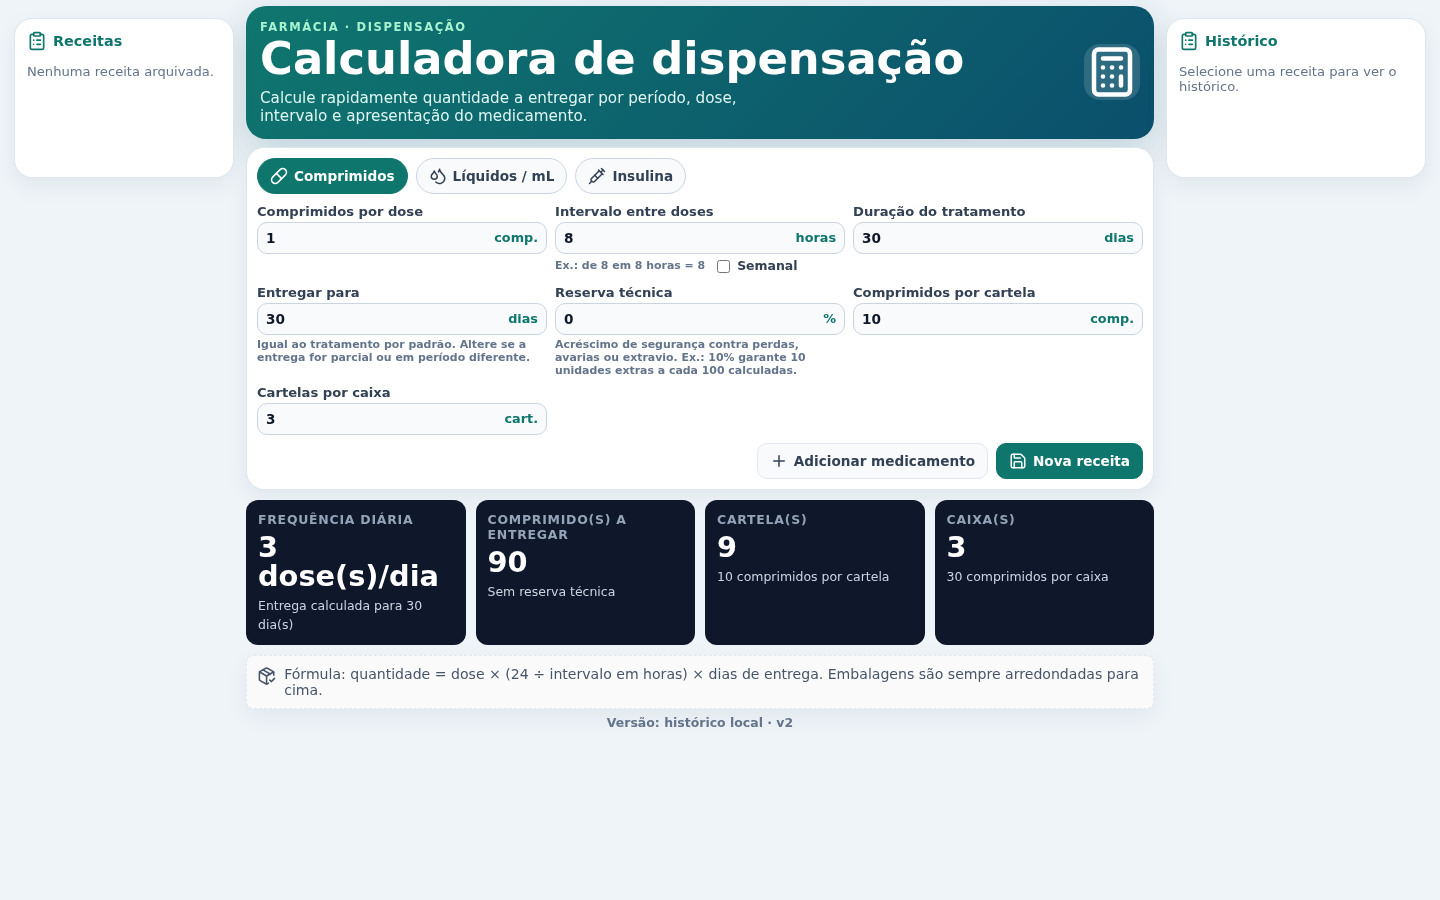
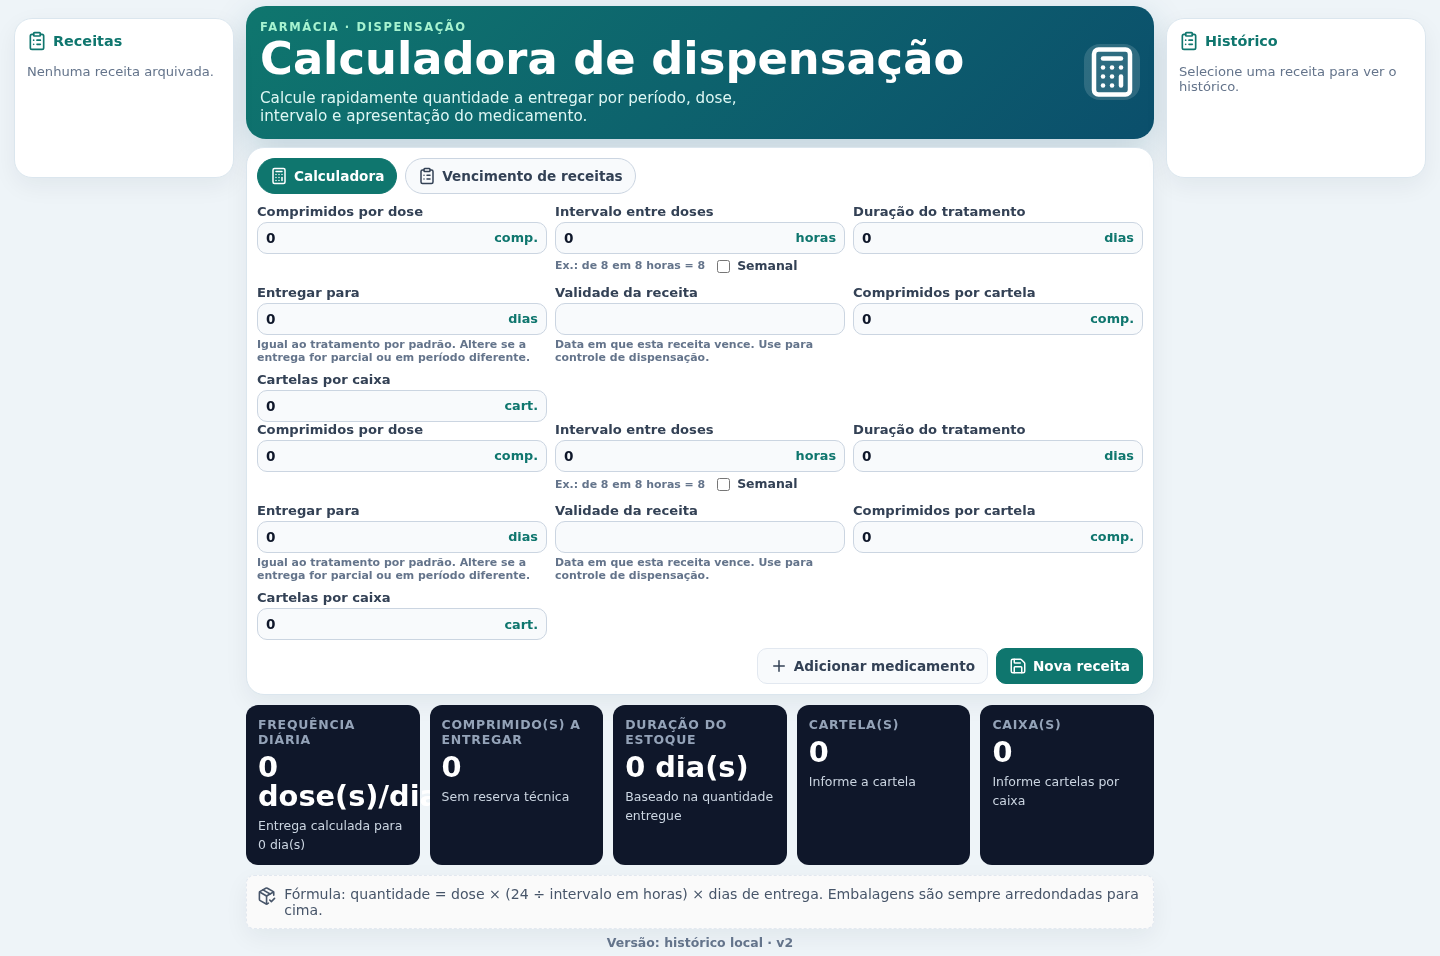
fix: remove duplicate calculator form, guard expiration view, default insulin days

diff --git a/src/main.jsx b/src/main.jsx
@@ -89,7 +89,13 @@ function App() {
     localStorage.setItem(STORAGE_KEY, JSON.stringify(recipes));
   }, [recipes]);
 
-  const setValue = (key) => (value) => setForm((current) => ({ ...current, [key]: value }));
+  const setValue = (key) => (value) => setForm((current) => {
+    const next = { ...current, [key]: value };
+    if (key === 'mode' && value === 'insulina') {
+      next.expiresAt = '';
+    }
+    return next;
+  });
 
   const weekly = form.weekly === '1';
 
@@ -288,119 +294,67 @@ function App() {
           </div>
 
           {view === 'calculator' && (
-            <div className="grid">
-              {isInsulin ? (
-                <>
-                  <div className="field">
-                    <span>Apresentação</span>
-                    <div className="radio">
-                      <label><input type="radio" name="insulinMode" value="tubete" checked={form.insulinMode === 'tubete'} onChange={() => setValue('insulinMode')('tubete')} /> Tubete</label>
-                      <label><input type="radio" name="insulinMode" value="frasco" checked={form.insulinMode === 'frasco'} onChange={() => setValue('insulinMode')('frasco')} /> Frasco</label>
+            <>
+              <div className="grid">
+                {isInsulin ? (
+                  <>
+                    <div className="field">
+                      <span>Apresentação</span>
+                      <div className="radio">
+                        <label><input type="radio" name="insulinMode" value="tubete" checked={form.insulinMode === 'tubete'} onChange={() => setValue('insulinMode')('tubete')} /> Tubete</label>
+                        <label><input type="radio" name="insulinMode" value="frasco" checked={form.insulinMode === 'frasco'} onChange={() => setValue('insulinMode')('frasco')} /> Frasco</label>
+                      </div>
                     </div>
-                  </div>
-                  <Field label="Manhã" value={form.insulinMorning} onChange={setValue('insulinMorning')} suffix="UI" min="0" step="any" />
-                  <Field label="Almoço" value={form.insulinLunch} onChange={setValue('insulinLunch')} suffix="UI" min="0" step="any" />
-                  <Field label="Tarde" value={form.insulinAfternoon} onChange={setValue('insulinAfternoon')} suffix="UI" min="0" step="any" />
-                  <Field label="Jantar" value={form.insulinDinner} onChange={setValue('insulinDinner')} suffix="UI" min="0" step="any" />
-                  <Field label="Noite" value={form.insulinNight} onChange={setValue('insulinNight')} suffix="UI" min="0" step="any" />
-                  <Field label="Dias de tratamento" value={form.insulinDays} onChange={setValue('insulinDays')} suffix="dias" />
-                </>
-              ) : (
-                <>
-                  <Field label={isMl ? 'Volume por dose' : 'Comprimidos por dose'} value={form.dose} onChange={setValue('dose')} suffix={isMl ? 'mL' : 'comp.'} />
-                  <Field
-                    label="Intervalo entre doses"
-                    value={form.intervalHours}
-                    onChange={setValue('intervalHours')}
-                    suffix="horas"
-                    help={
-                      <span className="helpInline">
-                        <span>Ex.: de 8 em 8 horas = 8</span>
-                        {!isMl && (
-                          <label className="inlineCheckbox">
-                            <input type="checkbox" checked={form.weekly === '1'} onChange={(e) => setValue('weekly')(e.target.checked ? '1' : '0')} />
-                            <strong>Semanal</strong>
-                          </label>
-                        )}
-                      </span>
-                    }
-                    disabled={form.weekly === '1'}
-                  />
-                  <Field label="Duração do tratamento" value={form.treatmentDays} onChange={setValue('treatmentDays')} suffix="dias" />
-                  <Field label="Entregar para" value={form.deliveryDays} onChange={setValue('deliveryDays')} suffix="dias" help="Igual ao tratamento por padrão. Altere se a entrega for parcial ou em período diferente." />
-                  {!isInsulin && <Field label="Validade da receita" value={form.expiresAt} onChange={setValue('expiresAt')} suffix="" help="Data em que esta receita vence. Use para controle de dispensação." />}
-
-                  {isMl ? (
-                    <Field label="Volume por frasco" value={form.mlPerBottle} onChange={setValue('mlPerBottle')} suffix="mL" />
-                  ) : (
-                    <>
-                      <Field label="Comprimidos por cartela" value={form.unitsPerBlister} onChange={setValue('unitsPerBlister')} suffix="comp." />
-                      <Field label="Cartelas por caixa" value={form.blistersPerBox} onChange={setValue('blistersPerBox')} suffix="cart." />
-                    </>
-                  )}
-                </>
-              )}
-            </div>
-          )}
-
-          <div className="grid">
-            {isInsulin ? (
-              <>
-                <div className="field">
-                  <span>Apresentação</span>
-                  <div className="radio">
-                    <label><input type="radio" name="insulinMode" value="tubete" checked={form.insulinMode === 'tubete'} onChange={() => setValue('insulinMode')('tubete')} /> Tubete</label>
-                    <label><input type="radio" name="insulinMode" value="frasco" checked={form.insulinMode === 'frasco'} onChange={() => setValue('insulinMode')('frasco')} /> Frasco</label>
-                  </div>
-                </div>
-                <Field label="Manhã" value={form.insulinMorning} onChange={setValue('insulinMorning')} suffix="UI" min="0" step="any" />
-                <Field label="Almoço" value={form.insulinLunch} onChange={setValue('insulinLunch')} suffix="UI" min="0" step="any" />
-                <Field label="Tarde" value={form.insulinAfternoon} onChange={setValue('insulinAfternoon')} suffix="UI" min="0" step="any" />
-                <Field label="Jantar" value={form.insulinDinner} onChange={setValue('insulinDinner')} suffix="UI" min="0" step="any" />
-                <Field label="Noite" value={form.insulinNight} onChange={setValue('insulinNight')} suffix="UI" min="0" step="any" />
-                <Field label="Dias de tratamento" value={form.insulinDays} onChange={setValue('insulinDays')} suffix="dias" />
-              </>
-            ) : (
-              <>
-                <Field label={isMl ? 'Volume por dose' : 'Comprimidos por dose'} value={form.dose} onChange={setValue('dose')} suffix={isMl ? 'mL' : 'comp.'} />
-                <Field
-                  label="Intervalo entre doses"
-                  value={form.intervalHours}
-                  onChange={setValue('intervalHours')}
-                  suffix="horas"
-                  help={
-                    <span className="helpInline">
-                      <span>Ex.: de 8 em 8 horas = 8</span>
-                      {!isMl && (
-                        <label className="inlineCheckbox">
-                          <input type="checkbox" checked={form.weekly === '1'} onChange={(e) => setValue('weekly')(e.target.checked ? '1' : '0')} />
-                          <strong>Semanal</strong>
-                        </label>
-                      )}
-                    </span>
-                  }
-                  disabled={form.weekly === '1'}
-                />
-                <Field label="Duração do tratamento" value={form.treatmentDays} onChange={setValue('treatmentDays')} suffix="dias" />
-                <Field label="Entregar para" value={form.deliveryDays} onChange={setValue('deliveryDays')} suffix="dias" help="Igual ao tratamento por padrão. Altere se a entrega for parcial ou em período diferente." />
-                {!isInsulin && <Field label="Validade da receita" value={form.expiresAt} onChange={setValue('expiresAt')} suffix="" help="Data em que esta receita vence. Use para controle de dispensação." />}
-
-                {isMl ? (
-                  <Field label="Volume por frasco" value={form.mlPerBottle} onChange={setValue('mlPerBottle')} suffix="mL" />
+                    <Field label="Manhã" value={form.insulinMorning} onChange={setValue('insulinMorning')} suffix="UI" min="0" step="any" />
+                    <Field label="Almoço" value={form.insulinLunch} onChange={setValue('insulinLunch')} suffix="UI" min="0" step="any" />
+                    <Field label="Tarde" value={form.insulinAfternoon} onChange={setValue('insulinAfternoon')} suffix="UI" min="0" step="any" />
+                    <Field label="Jantar" value={form.insulinDinner} onChange={setValue('insulinDinner')} suffix="UI" min="0" step="any" />
+                    <Field label="Noite" value={form.insulinNight} onChange={setValue('insulinNight')} suffix="UI" min="0" step="any" />
+                    <Field label="Dias de tratamento" value={form.insulinDays} onChange={setValue('insulinDays')} suffix="dias" />
+                  </>
                 ) : (
                   <>
-                    <Field label="Comprimidos por cartela" value={form.unitsPerBlister} onChange={setValue('unitsPerBlister')} suffix="comp." />
-                    <Field label="Cartelas por caixa" value={form.blistersPerBox} onChange={setValue('blistersPerBox')} suffix="cart." />
+                    <Field label={isMl ? 'Volume por dose' : 'Comprimidos por dose'} value={form.dose} onChange={setValue('dose')} suffix={isMl ? 'mL' : 'comp.'} />
+                    <Field
+                      label="Intervalo entre doses"
+                      value={form.intervalHours}
+                      onChange={setValue('intervalHours')}
+                      suffix="horas"
+                      help={
+                        <span className="helpInline">
+                          <span>Ex.: de 8 em 8 horas = 8</span>
+                          {!isMl && (
+                            <label className="inlineCheckbox">
+                              <input type="checkbox" checked={form.weekly === '1'} onChange={(e) => setValue('weekly')(e.target.checked ? '1' : '0')} />
+                              <strong>Semanal</strong>
+                            </label>
+                          )}
+                        </span>
+                      }
+                      disabled={form.weekly === '1'}
+                    />
+                    <Field label="Duração do tratamento" value={form.treatmentDays} onChange={setValue('treatmentDays')} suffix="dias" />
+                    <Field label="Entregar para" value={form.deliveryDays} onChange={setValue('deliveryDays')} suffix="dias" help="Igual ao tratamento por padrão. Altere se a entrega for parcial ou em período diferente." />
+                    {!isInsulin && <Field label="Validade da receita" value={form.expiresAt} onChange={setValue('expiresAt')} suffix="" help="Data em que esta receita vence. Use para controle de dispensação." />}
+
+                    {isMl ? (
+                      <Field label="Volume por frasco" value={form.mlPerBottle} onChange={setValue('mlPerBottle')} suffix="mL" />
+                    ) : (
+                      <>
+                        <Field label="Comprimidos por cartela" value={form.unitsPerBlister} onChange={setValue('unitsPerBlister')} suffix="comp." />
+                        <Field label="Cartelas por caixa" value={form.blistersPerBox} onChange={setValue('blistersPerBox')} suffix="cart." />
+                      </>
+                    )}
                   </>
                 )}
-              </>
-            )}
-          </div>
+              </div>
 
-          <div className="actions">
-            <button className="secondaryAction" onClick={addMedicine}><Plus size={18} /> Adicionar medicamento</button>
-            <button className="primaryAction" onClick={startNewRecipe}><Save size={18} /> Nova receita</button>
-          </div>
+              <div className="actions">
+                <button className="secondaryAction" onClick={addMedicine}><Plus size={18} /> Adicionar medicamento</button>
+                <button className="primaryAction" onClick={startNewRecipe}><Save size={18} /> Nova receita</button>
+              </div>
+            </>
+          )}
         </section>
 
         <section className="results" aria-live="polite">
@@ -444,17 +398,18 @@ function App() {
             <div className="recipeList">
               {recipes.map((recipe) => {
                 const today = new Date();
-                const expires = new Date(recipe.expiresAt || '');
+                const hasExpiration = !!recipe.expiresAt;
+                const expires = new Date(recipe.expiresAt || today);
                 const diffMs = expires - new Date(today.toISOString().slice(0, 10));
                 const diffDays = Math.ceil(diffMs / (1000 * 60 * 60 * 24));
-                const status = isNaN(diffDays) || diffDays < 0 ? 'Vencida' : diffDays <= 7 ? 'Vence em breve' : 'Válida';
-                const statusColor = status === 'Vencida' ? '#b91c1c' : status === 'Vence em breve' ? '#b45309' : '#15803d';
+                const status = !hasExpiration ? 'Sem validade' : diffDays < 0 ? 'Vencida' : diffDays <= 7 ? 'Vence em breve' : 'Válida';
+                const statusColor = status === 'Vencida' ? '#b91c1c' : status === 'Vence em breve' ? '#b45309' : status === 'Sem validade' ? '#64748b' : '#15803d';
                 return (
                   <article key={recipe.id} className="medicineItem">
                     <h3>{recipe.name}</h3>
                     <p>Criada em: {recipe.createdAt}</p>
                     <p>Vencimento: {recipe.expiresAt ? new Date(recipe.expiresAt).toLocaleDateString('pt-BR') : 'Não informado'}</p>
-                    <p style={{ color: statusColor, fontWeight: 800 }}>{status}{diffDays >= 0 ? ` (${diffDays} dia(s))` : ''}</p>
+                    <p style={{ color: statusColor, fontWeight: 800 }}>{status}{hasExpiration && diffDays >= 0 ? ` (${diffDays} dia(s))` : ''}</p>
                     <small>{recipe.medicines.length} remédio(s)</small>
                   </article>
                 );
